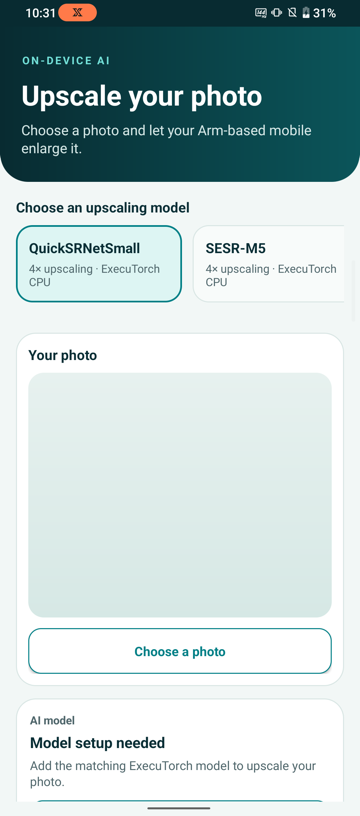
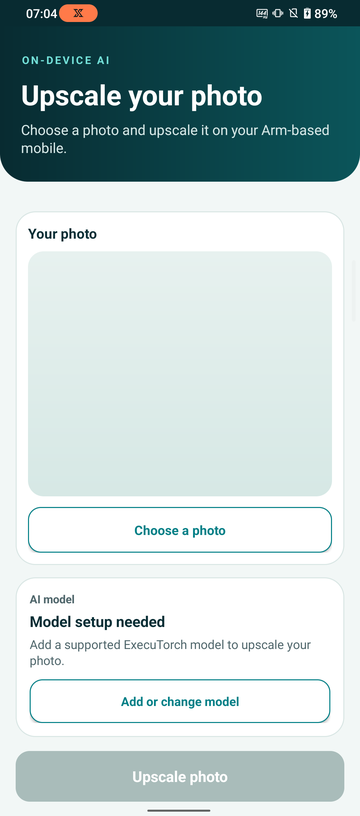
Photo Upscaling LP AI Portal

diff --git a/content/learning-paths/mobile-graphics-and-gaming/ai-portal-mobile-image-upscaling/4-understand-app.md b/content/learning-paths/mobile-graphics-and-gaming/ai-portal-mobile-image-upscaling/4-understand-app.md
@@ -1,64 +1,62 @@
 ---
 title: Understand the Photo Upscale Android application
-description: Trace model profiles, checked imports, RGB tiling, ExecuTorch CPU execution, blending, detail comparison, and PNG saving.
+description: Review how Photo Upscale imports models, upscales image tiles with ExecuTorch, and displays and saves the result.
 weight: 5
 
 ### FIXED, DO NOT MODIFY
 layout: learningpathall
 ---
 
+## How image upscaling works
+
+Image upscaling converts a low-resolution photo into a higher-resolution image. These models use patterns learned during training to predict finer detail from the input photo. Each model here produces an image four times wider and taller—16 times as many pixels. The result may look sharper, but predicted detail may differ from the original scene.
+
 ## How Photo Upscale works
 
-The screen derives from Photo Insight and retains its theme, card layouts, model selector, shared buttons, and status/results styling. `MainActivity.java` connects the Android document picker, model selector, saved photo, progress, original and output images, detail view, and save action. It moves model import, loading, image decoding, upscaling, and saving off the main Android user-interface thread so the screen remains responsive.
+`MainActivity.java` handles photo selection, model import, progress, results, detail comparison, and saving. Time-consuming operations run on a background thread so the screen stays responsive.
 
-An adapter is the application-side integration layer between the shared Android screen and one model workflow. `ExecuTorchUpscaleAdapter.java` provides CPU photo upscaling through `UpscaleAdapter.java`. The screen supplies a bitmap and displays the returned bitmap; tensor preparation, inference, and decoding stay inside the adapter.
+`UpscaleAdapter.java` defines how the screen loads a model and upscales a bitmap. `ExecuTorchUpscaleAdapter.java` implements those operations on the CPU. Gradle packages the ExecuTorch runtime in the APK; model files are imported separately.
 
-The adapter isn't a model executable. Gradle adds the ExecuTorch Android library when it builds the application, and its prebuilt `arm64-v8a` native runtime libraries are packaged in the Android application package (APK).
+### How Photo Upscale imports and checks models
 
-### How Photo Upscale resolves and validates the model
+`ModelProfile.java` records each model's checksum, tile size, scale factor, and overlap. `models.json` supplies the downloader's repository IDs, fixed revisions, filenames, and checksums.
 
-`ModelProfile.java` is the model registry. Each descriptor records its display name, storage ID, SHA-256 identity, input tile size, scale factor, and overlap. `models.json` records the matching upstream repository, immutable revision, source filename, and checksum for the downloader.
+`ModelImporter.java` identifies the selected file by its SHA-256 checksum and stores a private copy. It rejects unsupported or modified files and files above 16 MiB. Importing another model replaces the active model without clearing the selected photo.
 
-`ModelImporter.java` copies the document-picker URI to a temporary file and checks its SHA-256 against the selected descriptor. It rejects truncated files, the wrong model, unexpected revisions, and files above 16 MiB. Only a matching file replaces the private model copy. The original package filenames needn't be unique because identity comes from the checksum.
-
-`ExecuTorchUpscaleAdapter.load` closes the previous module, memory-maps the selected program, checks for `forward` and `XnnpackBackend`, and runs a zero-valued validation tile. The returned tensor must be float32 `[1,3,512,512]`. This warm-up is outside the displayed processing time. Checksum and tensor validation establish package compatibility, not image quality.
+The adapter closes the previous module, loads the model, checks for `forward` and `XnnpackBackend`, and runs a zero-valued test tile. This warm-up checks the output tensor and is excluded from the displayed processing time.
 
 ### How Photo Upscale prepares image tiles
 
-Android's `ImageDecoder` reads the saved photo with orientation metadata, requests software decoding and sRGB color, and rejects inputs above 512 × 512 before decoding pixel data. Transparent pixels are composited on white. No image is silently resized.
+Android's `ImageDecoder` applies orientation metadata and requests sRGB color. The app rejects photos above 512 × 512 pixels and composites transparent pixels on white.
 
-Each independently inspected program takes float32 `[1,3,128,128]` in RGB order with values divided by 255. INT8 quantization and dequantization are internal to the program. There is no ImageNet mean or standard-deviation normalization and no BGR conversion.
+All three models take float32 RGB `[1,3,128,128]` tensors: one image, three color channels, and a height and width of 128 pixels. RGB values are divided by 255 to give a range of `[0,1]`. Quantized operations run inside the model.
 
-`TileMath.positions` starts at zero and advances by 120 input pixels: a 128-pixel tile with 8-pixel overlap. The final tile is anchored at the far edge. This can increase overlap at the edge. Dimensions smaller than 128 are replicate-padded. Both dimensions are handled independently, including narrow, tall photos.
+The models require fixed-size input tiles, so the app divides larger photos into overlapping tiles. `TileMath.positions` places 128-pixel tiles at 120-pixel intervals, giving an 8-pixel overlap. The last tile meets the far edge, which can increase its overlap. If either dimension is smaller than 128, the app repeats edge pixels to fill the tile.
 
 ### How Photo Upscale runs the ExecuTorch program
 
-The adapter calls `Module.execute("forward", ...)` once per tile on a single background executor. Each tile returns float32 RGB `[1,3,512,512]`. It verifies the tensor type, shape, and finite pixel values. The loaded module is reused until the model changes or the activity is destroyed.
+The adapter calls `Module.execute("forward", ...)` once per tile. It checks that each output is float32 RGB `[1,3,512,512]` with no NaN or infinite values. Progress shows completed tiles.
 
-Progress counts completed tiles, not estimated remaining seconds. The adapter releases the module before loading another model; lifecycle cleanup runs on the same executor to avoid closing a module during inference.
-
-The model program selects XNNPACK CPU execution. Kernel selection depends on CPU features, the model, and the runtime build. An SME2 label on a Portal model doesn't prove that this application used SME2 kernels. This workflow doesn't measure a kernel-level speedup.
+XNNPACK selects CPU kernels according to the model, runtime build, and available CPU features. A Portal model's SME2 label does not confirm that SME2 kernels ran on your phone.
 
 ### How Photo Upscale blends and converts output
 
-Each non-edge tile has a linear 32-output-pixel ramp at its borders, corresponding to 8 input pixels at 4× scale. The app accumulates weighted RGB values and a weight sum, then divides each output pixel by its weight. Padding is cropped to exactly four times the input width and height.
+Blending reduces visible joins where neighboring tiles predict different pixel values. The app blends overlapping tiles with linear weights across 32 output pixels. Borders at the image edge keep their full weight. It removes padding to produce exactly four times the input width and height.
 
-After blending, it rejects non-finite values, clamps to `[0,1]`, multiplies by 255, and truncates to integer RGB channels, matching the reference image conversion. An opaque Android bitmap holds the result. The app doesn't add a second interpolation or sharpening pass.
+RGB values are clamped to `[0,1]`, multiplied by 255, and truncated to integer channels in an opaque bitmap.
 
 ### How Photo Upscale displays, measures, and saves images
 
-The result summary names the model and shows input/output dimensions. `SystemClock.elapsedRealtimeNanos` measures the complete upscale call, from RGB preparation through tiled inference, blending, and bitmap creation. It excludes import, load/warm-up, photo decoding, rendering, and PNG saving.
+The result shows the model, input/output dimensions, and processing time. Timing includes RGB preparation, inference, blending, and bitmap creation. It excludes import, model loading and warm-up, photo decoding, display, and saving.
 
-`DetailView.java` draws the original or output in the same normalized scene coordinates. Pinch zoom and drag pan are retained when toggling, so you can inspect the same feature at the same displayed size. Comparing at fitted size alone can hide artifacts.
-
-The **Save image** action opens Android's document picker with the `image/png` MIME type. The application writes the displayed bitmap to the location that you select without needing broad shared-storage permission.
+`DetailView.java` keeps the zoom and position when you switch between original and upscaled images. **Save image** writes the output as a PNG through Android's document picker, without broad storage permission.
 
 ### (Optional) Support another compatible model
 
-Complete the supplied workflow before extending it. A new profile can reuse this adapter only after inspection confirms the same forward method, RGB range and layout, tensor types, static tile shape, scale, output decoding, and CPU backend. Add its pinned artifact to `models.json`, its identity and verified geometry to `ModelProfile.java`, and validate import, image quality, dimensions, switching, and saving on Android.
+A new model can reuse this adapter if its preprocessing, tensor shapes and types, scale factor, output conversion, and CPU backend match. Add its download entry to `models.json` and profile to `ModelProfile.java`, then rebuild and test import, inference, image detail, dimensions, switching, and saving.
 
-Use another adapter when preprocessing, methods, dynamic shapes, output decoding, or runtime requirements differ. Adapters and runtime libraries are compiled into the APK; importing a model doesn't add application code. The main workflow already supplies all three profiles and doesn't require generating code.
+Models with different requirements need adapter changes or a separate adapter.
 
-## What you've learned and what's next
+## What you've learned
 
-You can now trace the application from model import through RGB tiling, ExecuTorch CPU inference, feathered blending, detail comparison, and PNG output. Use the same saved photo with each supported model to compare visual results, and validate on a physical Arm-based Android phone with the required `arm64-v8a` ABI before drawing performance conclusions.
+You've seen how Photo Upscale imports models, upscales tiles, blends the output, and saves a PNG. Now you can try and use these models for your own photo upscaling applications on Arm-based CPUs.

diff --git a/content/learning-paths/mobile-graphics-and-gaming/ai-portal-mobile-image-upscaling/3-run-model.md b/content/learning-paths/mobile-graphics-and-gaming/ai-portal-mobile-image-upscaling/3-run-model.md
@@ -7,19 +7,13 @@ weight: 4
 layout: learningpathall
 ---
 
-## Photo Upscale adapters
+## Run QuickSRNetSmall with ExecuTorch
 
-An adapter is application code that connects the shared Android interface to a model task and runtime. Photo Upscale supplies an ExecuTorch adapter and three model profiles. Each profile identifies one inspected package and its tile size, scale factor, and overlap.
-
-The model runs locally on the Android CPU. The application doesn't upload the selected photo to a server. The imported model stays in application-private storage; no model weights are included in the APK.
-
-Start with QuickSRNetSmall because it has a small model package and low reported per-tile cost. You can use another supported model after completing the default workflow. Run the commands from the project directory in the same terminal session that you used during setup.
+Start with QuickSRNetSmall, using the ExecuTorch runtime. You can use another supported model after completing the default workflow. Run the commands from the project directory in the same terminal session that you used during setup.
 
 {{% notice Note %}}
 Arm AI Portal models are hosted on Hugging Face. The `download_model.py` script uses `huggingface_hub` and connects to `https://huggingface.co` by default.
 {{% /notice %}}
-
-## Run QuickSRNetSmall with ExecuTorch
 
 Set `MODEL_ID` to the repository ID for the default QuickSRNetSmall model:
 
@@ -51,7 +45,7 @@ Write-Output "Model file: $MODEL_FILE"
   {{< /tab >}}
 {{< /tabpane >}}
 
-The downloader retrieves the pinned `model.pte`, verifies its SHA-256 checksum, and copies it to `quicksr.pte`. The upstream QuickSRNetSmall and SESR-M5 programs are both named `model.pte`, so the downloader gives them distinct filenames. The application validates the selected profile by file content, not filename.
+The downloader retrieves the pinned `model.pte`, verifies its SHA-256 checksum, and copies it to `quicksr.pte`. The upstream QuickSRNetSmall and SESR-M5 programs are both named `model.pte`, so the downloader gives them distinct filenames.
 
 Copy the model to the phone's **Downloads** directory:
 
@@ -75,29 +69,26 @@ To use a different JPEG or PNG image, replace `samples/photo.jpg` in the `adb pu
 
 In Photo Upscale:
 
-1. Keep **QuickSRNetSmall** selected.
-2. Select **Add or change model** and choose `quicksr.pte` from **Downloads**.
-3. Keep the application open until it reports **QuickSRNetSmall ready · ExecuTorch CPU**.
-4. Select **Choose a photo** and choose `photo.jpg` from **Downloads**.
-5. Select **Upscale photo**.
+1. Select **Add or change model** and choose `quicksr.pte` from **Downloads**.
+2. Keep the application open until it reports **QuickSRNetSmall ready · ExecuTorch CPU**.
+3. Select **Choose a photo** and choose `photo.jpg` from **Downloads**.
+4. Select **Upscale photo**.
 
-The importer checks the model's checksum and copies it to application-specific storage. You can delete the `.pte` from **Downloads** after import. The imported file remains until you uninstall the application or clear its storage.
+The importer identifies the supported model by its checksum and copies it to application-specific storage. You can delete the `.pte` from **Downloads** after import. The imported file remains until you uninstall the application or clear its storage.
 
-The application reports tile progress, then displays the original and upscaled image, input/output dimensions, model name, runtime, and processing time. The sample must produce **96 × 64 → 384 × 256**. Four times the width and height means sixteen times as many pixels. Smaller photos are replicate-padded to one 128 × 128 tile, then cropped to the correct output size. Larger photos use overlapping tiles.
+The application reports tile progress, then displays the original and upscaled image, input/output dimensions, model name, and processing time. The sample must produce **96 × 64 → 384 × 256**. This 4× upscaling gives sixteen times as many pixels. The app handles image tiles automatically; page 4 explains how it pads and combines them.
 
-**Processing time** covers RGB preparation, every tile's inference, blending, and conversion to the output bitmap. It excludes model import, loading and the validation warm-up, photo decoding, screen rendering, and saving. It is a full-image measurement, not the Portal's per-tile latency. Treat emulator timings as functional observations, not phone benchmarks.
+**Processing time** covers RGB preparation, every tile's inference, blending, and conversion to the output bitmap. It excludes model import, loading and the validation warm-up, photo decoding, screen rendering, and saving. It is a full-image measurement, not per-tile latency.
 
-![Photo Upscale on an ASUS ROG Phone 6D showing the QuickSRNetSmall street-photo output, 96 by 64 input and 384 by 256 output dimensions, and a concise processing-time note in the results card.#center](images/photo-upscale-result.png "Actual phone result; 184.4 ms is one functional-test observation, not a controlled benchmark")
+![Photo Upscale on an ASUS ROG Phone 6D showing the QuickSRNetSmall street-photo output, 96 by 64 input and 384 by 256 output dimensions, and a concise processing-time note in the results card.#center](images/photo-upscale-result.png "Actual phone result; 161.7 ms is one functional-test observation, not a controlled benchmark")
 
 ## Inspect detail and save the image
 
-Select **Inspect detail**. Pinch to zoom and drag to pan, then use **Showing upscaled · switch to original** to compare the same region at the same displayed size. **Reset zoom** returns to the fitted view. Look at traffic signals, vehicle edges, textures, and tile boundaries. More pixels don't guarantee more accurate detail: the model can smooth or invent texture.
+Select **Inspect detail**. Pinch to zoom and drag to pan, then use **Showing upscaled · switch to original** to compare the same region at the same displayed size. **Reset zoom** returns to the fitted view. Look at traffic signals, vehicle edges, and textures. With photos larger than 128 pixels in either dimension, also check for visible joins between tiles. More pixels don't guarantee more accurate detail: the model can smooth or invent texture.
 
 Select **Close detail**, then **Save image**. Android opens the document picker with a suggested `.png` filename. Choose a location such as **Downloads**, change the filename if needed, and select **Save**.
 
-Open the saved PNG in an image viewer. Verify its dimensions are **384 × 256**, its orientation and colors match the source, and its detail matches the displayed output. Choose a second, visibly different photo and run again to confirm the output follows the input. For a tiled check, use a 249 × 133 input and verify a 996 × 532 output. Also check a narrow input such as 63 × 257, which must produce 252 × 1028.
-
-If loading fails, confirm the model selector matches the downloaded repository. A checksum error means the file isn't the pinned artifact for that profile. A native-runtime error can indicate an incompatible runtime or device; record the error and device details rather than assuming support. If a photo is too large or memory is insufficient, choose a smaller photo.
+Open the saved PNG in an image viewer. Verify its dimensions are **384 × 256**, its orientation and colors match the source, and its detail matches the displayed output. Choose a second, visibly different photo and run again to confirm the output follows the input.
 
 ## Use another supported model
 
@@ -109,9 +100,9 @@ Photo Upscale also supports the following Arm AI Portal model packages:
 | [SESR-M5 INT8](https://developer.arm.com/ai/models/hugging-face/Arm/sesr-m5-int8-xnnpack-executorch-vivo-x300/sesr-m5-int8-pte) | ExecuTorch CPU / XNNPACK | `Arm/sesr-m5-int8-xnnpack-executorch-vivo-x300` | `sesr.pte` | RGB `[0,1]`, 128 × 128 → 512 × 512, 4×; app chooses 8-pixel overlap |
 | [RealESR-general-x4v3 INT8](https://developer.arm.com/ai/models/hugging-face/Arm/realesr-general-x4v3-int8-xnnpack-executorch-vivo-x300/realesr-general-x4v3-int8-pte) | ExecuTorch CPU / XNNPACK | `Arm/realesr-general-x4v3-int8-xnnpack-executorch-vivo-x300` | `realesr.pte` | RGB `[0,1]`, 128 × 128 → 512 × 512, 4×, 8-pixel overlap |
 
-To use one of these models, set `MODEL_ID` to a repository ID from the table and repeat the download and import workflow. Select its card in the horizontal model selector before importing. Swipe the selector to reveal RealESR-general-x4v3. The saved photo remains selected; the previous result is cleared. Select **Upscale photo**, inspect the result, and save it under a different filename. Switching releases the previous runtime. Returning to an imported model reloads its private copy.
+To use one of these models, set `MODEL_ID` to a repository ID from the table and repeat the download and import workflow. Select **Add or change model** and import its file. The single ExecuTorch adapter detects the matching profile automatically. The selected photo stays in place and the previous result is cleared. Select **Upscale photo** again, compare the same details, and save under a different filename.
 
-The supplied profiles don't require tokenizers, projectors, or other runtime assets. They validate float32 outputs, clamp RGB values to `[0,1]`, and convert them to 8-bit RGB. INT8 describes the internal quantized computation, not the Java input/output tensor type. SESR's package doesn't document a tiling algorithm; its profile uses the app's feathered tiler. Compare seams and image quality on your own photos.
+Each model needs only its `.pte` file. INT8 describes quantized operations inside the model; all three accept and return float32 RGB tensors.
 
 ## What you've accomplished and what's next
 

diff --git a/content/learning-paths/mobile-graphics-and-gaming/ai-portal-mobile-image-upscaling/1-setup.md b/content/learning-paths/mobile-graphics-and-gaming/ai-portal-mobile-image-upscaling/1-setup.md
@@ -11,11 +11,9 @@ layout: learningpathall
 
 The [Arm AI Portal](https://developer.arm.com/ai/models) is a catalog of AI models across different runtimes, use cases, and profiles that are optimized for different Arm-based targets. The AI Portal provides benchmarking and compatibility data, code examples, and deployment methods.
 
-You'll use an example application called Photo Upscale to enlarge a saved photo locally on an Arm-based Android device. You'll import the model separately from the APK, run QuickSRNetSmall first, compare image detail, and save the output as a PNG. The same supplied adapter also supports SESR-M5 and RealESR-general-x4v3 through verified model profiles.
+You'll use an example application called Photo Upscale to upscale a saved photo locally on an Arm-based Android device. You'll import a model, using QuickSRNetSmall first, run inference, compare image detail, and save the output as a PNG. The same application also supports SESR-M5 and RealESR-general-x4v3 models.
 
-Use an Arm-based Android device with the `arm64-v8a` ABI and Android 9 (API 28) or later. The application accepts images at most 512 × 512 pixels and produces an image four times wider and taller, up to 2048 × 2048. Start with the supplied 96 × 64 sample. Larger images are rejected without resizing; resize a copy in an image editor before choosing it. Tile accumulators alone can use about 64 MiB at the input limit, in addition to bitmaps and runtime memory. At the input limit, at least 256 MiB of application heap is recommended; if memory runs out, use a smaller photo.
-
-The APK contains prebuilt `arm64-v8a` ExecuTorch libraries, so you don't need an NDK or a model export environment. This app doesn't use a camera or require network or broad storage permissions.
+Use an Arm-based Android device with the `arm64-v8a` ABI and Android 9 (API 28) or later. The application accepts images at most 512 × 512 pixels and produces an image four times wider and taller, up to 2048 × 2048. Start with the supplied 96 × 64 sample. If either dimension exceeds 512 pixels, resize a copy beforehand in an image editor.
 
 ## Check the host development tools
 

diff --git a/content/learning-paths/mobile-graphics-and-gaming/ai-portal-mobile-image-upscaling/2-build-and-run.md b/content/learning-paths/mobile-graphics-and-gaming/ai-portal-mobile-image-upscaling/2-build-and-run.md
@@ -83,14 +83,12 @@ adb install -r app/build/outputs/apk/debug/app-debug.apk
 adb shell am start -n org.arm.learningpath.upscaling/.MainActivity
 ```
 
-Photo Upscale opens with **QuickSRNetSmall** selected. **Upscale photo** remains unavailable until you import its matching model and choose a saved photo. The screen provides **Add or change model**, **Choose a photo**, **Upscale photo**, **Inspect detail**, and **Save image**. Installing with `adb install -r` preserves models imported previously.
+Photo Upscale uses one ExecuTorch adapter for all supported models. Use **Add or change model** to load a model. **Upscale photo** remains unavailable until you import a supported model and choose a saved photo. **Inspect detail** and **Save image** appear after upscaling. Installing with `adb install -r` preserves models imported previously. On a first installation, the app reports **Model setup needed**.
 
-![Photo Upscale first-launch screen using the Photo Insight layout, with QuickSRNetSmall selected, an empty photo preview, and Model setup needed before importing a model.#center](images/photo-upscale-startup.png "Photo Upscale before a model or photo is added")
-
-A successful build confirms compilation and packaging. Confirming model import and plausible output on your Android device is a separate step.
+![Photo Upscale showing Model setup needed, an empty photo preview, and the disabled Upscale photo button.#center](images/photo-upscale-startup.png "Photo Upscale before importing a model or choosing a photo")
 
 ## What you've accomplished and what's next
 
 You've connected an Arm-based Android phone, prepared the model downloader, and confirmed that Photo Upscale builds and starts.
 
-Next, you'll download an optimized upscaling model from the Arm AI Portal and enlarge a saved photo.
+Next, you'll download an optimized upscaling model from the Arm AI Portal and upscale a saved photo.

diff --git a/content/learning-paths/mobile-graphics-and-gaming/ai-portal-mobile-image-upscaling/_index.md b/content/learning-paths/mobile-graphics-and-gaming/ai-portal-mobile-image-upscaling/_index.md
@@ -1,12 +1,11 @@
 ---
-title: Run Arm AI Portal upscaling models on Android
-description: Build Photo Upscale, import QuickSRNetSmall, SESR-M5, or RealESR through ExecuTorch, and enlarge saved photos locally on the CPU of an Arm-based Android device.
+title: Run optimized Arm AI Portal image upscaling models on Android
+description: Build Photo Upscale, import QuickSRNetSmall, SESR-M5, or RealESR through ExecuTorch, and upscale saved photos locally on the CPU of an Arm-based Android device.
 minutes_to_complete: 40
-who_is_this_for: Android and machine learning developers who want to upscale saved photos locally on an Arm-based Android device.
+who_is_this_for: Android and machine learning developers who want to upscale saved photos locally on an Arm-based Android device using optimized models from the Arm AI Portal.
 learning_objectives:
     - Prepare the Android command-line tools and connect an Arm-based Android phone.
     - Download and run supported upscaling models from the Arm AI Portal.
-    - Compare the original and upscaled photo, verify its dimensions, and save the result.
     - Explain how the supplied adapter prepares image tiles, runs ExecuTorch, and combines the upscaled output.
 prerequisites:
     - A macOS, Linux, or Windows development machine
@@ -23,7 +22,7 @@ generate_summary_faq: false
 rerun_summary: false
 rerun_faqs: false
 skilllevels: Introductory
-subjects: ML
+subjects: AI/ML
 armips:
     - Cortex-A
 tools_software_languages:
@@ -32,6 +31,7 @@ tools_software_languages:
     - ExecuTorch
     - XNNPACK
     - Arm AI Portal
+    - Hugging Face
 operatingsystems:
     - Android
 further_reading:
